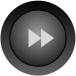
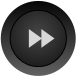
更换播放器按键图片， 添加按键响应事件

diff --git a/ColdEye/UI/Wnd/AlphaMarkWnd.cpp b/ColdEye/UI/Wnd/AlphaMarkWnd.cpp
@@ -29,6 +29,7 @@ CDuiString CAlphaMarkWnd::GetSkinFile()
 
 LRESULT CAlphaMarkWnd::HandleCustomMessage(UINT uMsg, WPARAM wParam, LPARAM lParam, BOOL & bHandled)
 {
+	Print("AlpWnd msg:%d", uMsg);
 	CDuiString PlayText;
 	switch (uMsg) {
 	case USER_MSG_PLAY_PLAY:
@@ -48,8 +49,13 @@ LRESULT CAlphaMarkWnd::HandleCustomMessage(UINT uMsg, WPARAM wParam, LPARAM lPar
 		pBt_fast->SetVisible(true);
 		pBt_fast->SetText(PlayText);
 		break;
-	}
-	return LRESULT();
+
+	case WM_SETFOCUS:
+		SetFocus(pPlayerWall->GetHWND());
+		break;
+	}	 
+	bHandled = FALSE;
+	return 0;
 }
 
 void CAlphaMarkWnd::Notify(TNotifyUI & msg)
@@ -60,4 +66,9 @@ void CAlphaMarkWnd::InitWindow()
 {
 	pBt_fast = static_cast<CButtonUI*>(m_pm.FindControl(_T("bt_fast")));
 	pBt_slow = static_cast<CButtonUI*>(m_pm.FindControl(_T("bt_slow")));
+}
+
+void CAlphaMarkWnd::SetPlayerWnd(CPlayerWallWnd *pWnd)
+{
+	pPlayerWall = pWnd;
 }

diff --git a/ColdEye/UI/Wnd/AlphaMarkWnd.h b/ColdEye/UI/Wnd/AlphaMarkWnd.h
@@ -2,7 +2,10 @@
 
 #include "UIlib.h"
 #include "H264Play.h"
+#include "Wnd\PlayerWallWnd.h"
 #include "File\RecordFileInfo.h"
+
+class CPlayerWallWnd;
 
 using namespace std;
 using namespace DuiLib;
@@ -20,8 +23,10 @@ public:
 	LRESULT HandleCustomMessage(UINT uMsg, WPARAM wParam, LPARAM lParam, BOOL& bHandled);
 	void Notify(TNotifyUI& msg);
 	void InitWindow();
+	void SetPlayerWnd(CPlayerWallWnd*);
 
 private:
+	CPlayerWallWnd *pPlayerWall;
 	CDuiString mSkinFileName;
 
 	CButtonUI* pBt_fast;

diff --git a/ColdEye/UI/Wnd/PlayerWallWnd.h b/ColdEye/UI/Wnd/PlayerWallWnd.h
@@ -6,6 +6,7 @@
 #include "H264Play.h"
 #include "File/RecordFileInfo.h"
 
+class CAlphaMarkWnd;
 using namespace std;
 
 using namespace DuiLib;
@@ -32,6 +33,7 @@ public:
 	void InitWindow();
 	void PreparePlay(WPARAM wParam, LPARAM lParam);
 	LRESULT OnTimer(UINT uMsg, WPARAM wParam, LPARAM lParam, BOOL & bHandled);
+	virtual LRESULT OnKeyDown(UINT /*uMsg*/, WPARAM /*wParam*/, LPARAM /*lParam*/, BOOL& bHandled);
 	bool OnSlow(void* param);
 	bool OnFast(void* param);
 	bool OnPlay(void* param);
